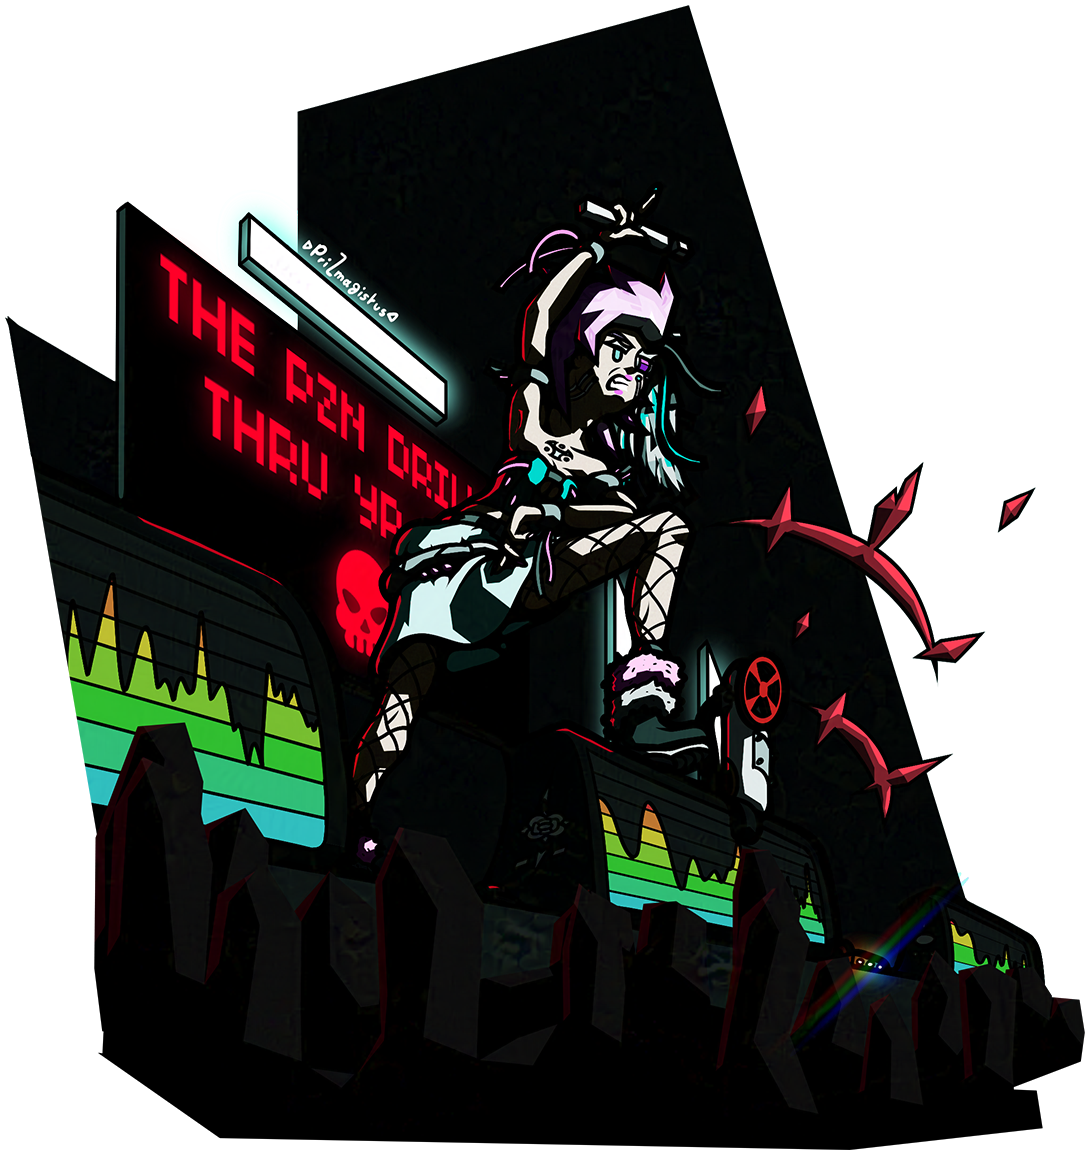
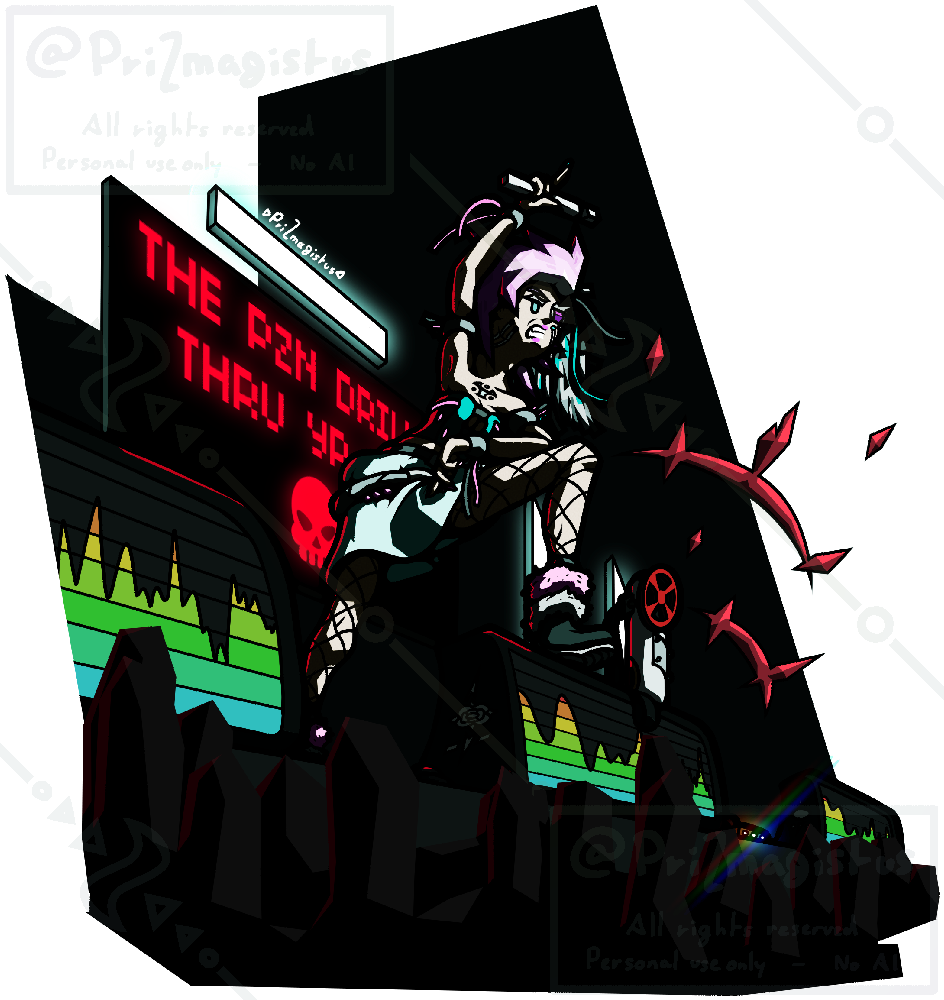
Gallery cleanup and watermarking

diff --git a/services/index.html b/services/index.html
@@ -7,21 +7,21 @@
   </div>
 
   <div class="services-col">
-    <img src="media/gallery/i-qadrya-cleanup.png" title="Qadrya Cleanup (2024)">
+    <img src="media/gallery/i-fish-chill.png" title="Antipatha (2025)">
     <h2>Illustrations</h2>
     <p class="text-area">More complex depictions of one or multiple characters or a scene. Great for banners and wallpapers!</p>
     <h2 class="hover-ul" onclick="services_show('illustration');">Learn more</h2>
   </div>
 
   <div class="services-col">
-    <img src="media/gallery/r-zaj.png" style="width: 90%; margin: 0% 5%;" title="Zaj (simplified style) (2024)">
+    <img src="media/gallery/r-zoku.png" style="width: 90%; margin: 0% 5%;" title="Reference sheet: Kinzoku (2024)">
     <h2>Reference</h2>
     <p class="text-area">A detailed study of a single character under various angles and situations, for fleshing out that blurry idea that's been lingering in your head for a while.</p>
     <h2 class="hover-ul" onclick="services_show('reference');">Learn more</h2>
   </div>
 
   <div class="services-col">
-      <img src="media/gallery/m-vega-shock.png" title="Shocked Vega (2024)">
+      <img src="media/gallery/m-palatinate.gif" title="REMUS-7 Palatinate Mothership (2026)">
     <h2>Miniatures</h2>
     <p class="text-area">Assorted miniatures and headshots for use as icons, emotes, VTT tokens, and more.</p>
     <h2 class="hover-ul" onclick="services_show('mini');">Learn more</h2>

diff --git a/services/char.html b/services/char.html
@@ -14,14 +14,14 @@
     </div>
     <!-- Image field, generated randomly using JS for importing a random gallery picture-->
     <div class="simple-content-field flex-row" style="display:inline; margin-top: -5vh;">
-      <img src="media/gallery/a-vega.png" style="width: 40%; height: 110%;"  title="Vega (2024)">
-      <img src="media/gallery/a-chrona-arcadian.png" style="width: 50%; height: 90%;"  title="Chrona (Arcadian variant) (2024)">
+      <img src="media/gallery/a-vega.png" style="width: 38%;"  title="Vega (2024)">
+      <img src="media/gallery/a-sai.png" style="width: 58%;"  title="Säihke (2025)">
     </div>
   </div>
   <div class="h-sep"></div>
   <div class="flex-row about-content-row">
     <!-- Image field, generated randomly using JS for importing a random gallery picture-->
-    <div class="simple-content-field"><img src="media/gallery/a-lysi-deuteron.png"  title="Lysithea Bellatrix (2024)"></div>
+    <div class="simple-content-field"><img src="media/gallery/a-bfg.png"  title="Lambda (2026)"></div>
     <div class="simple-content-field align-l">
       <h2>Pricing</h2>
       <p class="text-area" style="font-size: 14px; margin-top: -0.5em;">All prices are given in EUR for a single character, cumulative for multiple characters.</p>

diff --git a/services/mini.html b/services/mini.html
@@ -14,16 +14,14 @@
     </div>
     <!-- Image field, generated randomly using JS for importing a random gallery picture-->
     <div class="simple-content-field" style="display:inline;">
-      <img src="media/gallery/m-dv4-chibi.png" style="width: 48%;" title="Gayaka - Chibi (2026)">
-      <img src="media/gallery/m-rika-chibi.png" style="width: 48%;" title="Rika - Chibi (2025)">
+      <img src="media/gallery/m-cos.png" title="Curse of Strahd Party (2026)">
     </div>
   </div>
   <div class="h-sep"></div>
   <div class="flex-row about-content-row">
     <!-- Image field, generated randomly using JS for importing a random gallery picture-->
     <div class="simple-content-field" style="display:inline;">
-      <img src="media/gallery/m-lysi-deuteron.png" style="width: 48%;" title="Lysithea (Bellatrix variant) (2024)">
-      <img src="media/gallery/m-pack.png" style="width: 48%;" title="Assorted Discord emotes (2024)">
+      <img src="media/gallery/m-angels.png" title="Angel Squad (2026)">
     </div>
     <div class="simple-content-field align-l">
       <h2>Pricing</h2>

diff --git a/sidebar.html b/sidebar.html
@@ -37,12 +37,12 @@
       <a class="sidebar-social-icon" href="https://www.reddit.com/user/Prizmatic527/" title="Reddit: u/Prizmatic527" target="_parent">
         <img class="hover-brighten" src="media/logos/reddit-mini.png" style="width: 48px;">
       </a>
-      <a class="sidebar-social-icon" href="https://cara.app/prizmagistus" title="Cara: @prizmagistus" target="_parent">
+      <!--a class="sidebar-social-icon" href="https://cara.app/prizmagistus" title="Cara: @prizmagistus" target="_parent">
         <img class="hover-brighten" src="media/logos/cara-mini.png" style="width: 32px;">
       </a>
       <a class="sidebar-social-icon" href="https://x.com/aperian_" title="Twitter: @aperian_" target="_parent">
         <img class="hover-brighten" src="media/logos/twitter-mini.png" style="width: 36px;">
-      </a>
+      </a-->
     </div>
     <p class="align-c" style="font-size: 12px; align-self: flex-end;">Copyright © Prizma 2024-2026 All Rights Reserved.<br>Wallpapers do not belong to me.</p>
   </body>

diff --git a/services/reference.html b/services/reference.html
@@ -13,12 +13,12 @@
         </p>
     </div>
     <!-- Image field, generated randomly using JS for importing a random gallery picture-->
-    <div class="simple-content-field"><img src="media/gallery/r-alby.png" title="Alby (2024)"></div>
+    <div class="simple-content-field"><img src="media/gallery/r-rika.png" title="Reference sheet: Frederika (2026)"></div>
   </div>
   <div class="h-sep"></div>
   <div class="flex-row about-content-row">
     <!-- Image field, generated randomly using JS for importing a random gallery picture-->
-    <div class="simple-content-field"><img src="media/gallery/r-mira.png" title="Miranda (2024)"></div>
+    <div class="simple-content-field"><img src="media/gallery/r-mira.png" title="Reference sheet: Miranda (2024)"></div>
     <div class="simple-content-field align-l">
       <h2>Pricing</h2>
       <p class="text-area" style="font-size: 14px; margin-top: -0.5em;">All prices are given in EUR.</p>

diff --git a/services/illustration.html b/services/illustration.html
@@ -11,7 +11,7 @@
         </p>
     </div>
     <!-- Image field, generated randomly using JS for importing a random gallery picture-->
-    <div class="simple-content-field"><img src="media/gallery/i-qadrya-cleanup.png" title="Qadrya Cleanup (2024)"></div>
+    <div class="simple-content-field"><img src="media/gallery/i-floating.png" title="Floating (2025)"></div>
   </div>
   <div class="h-sep"></div>
   <div class="flex-row about-content-row">

diff --git a/gallery.html b/gallery.html
@@ -32,7 +32,7 @@
 							</div>
 							<p class="text-area align-c">
 								Click on a piece to see an enlarged version.<br>
-								Those examples have been downscaled and <a href="https://glaze.cs.uchicago.edu/"><b><u>glazed</u></b></a>. Completed commissions will be two to three times as large.
+								Note: completed commissions will not bear any watermark.
 							</p>
 						</div>
 				</div>
